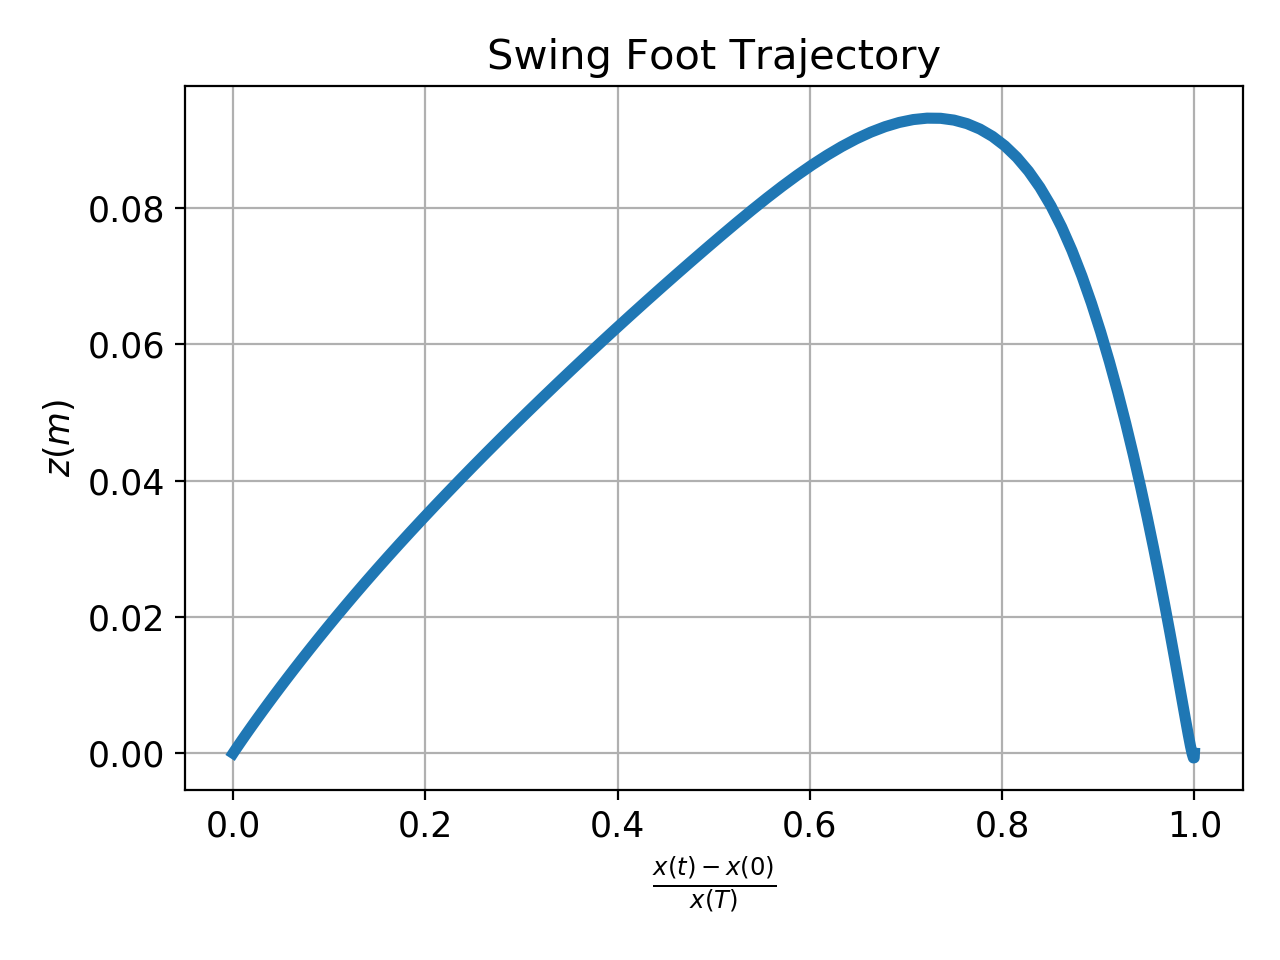
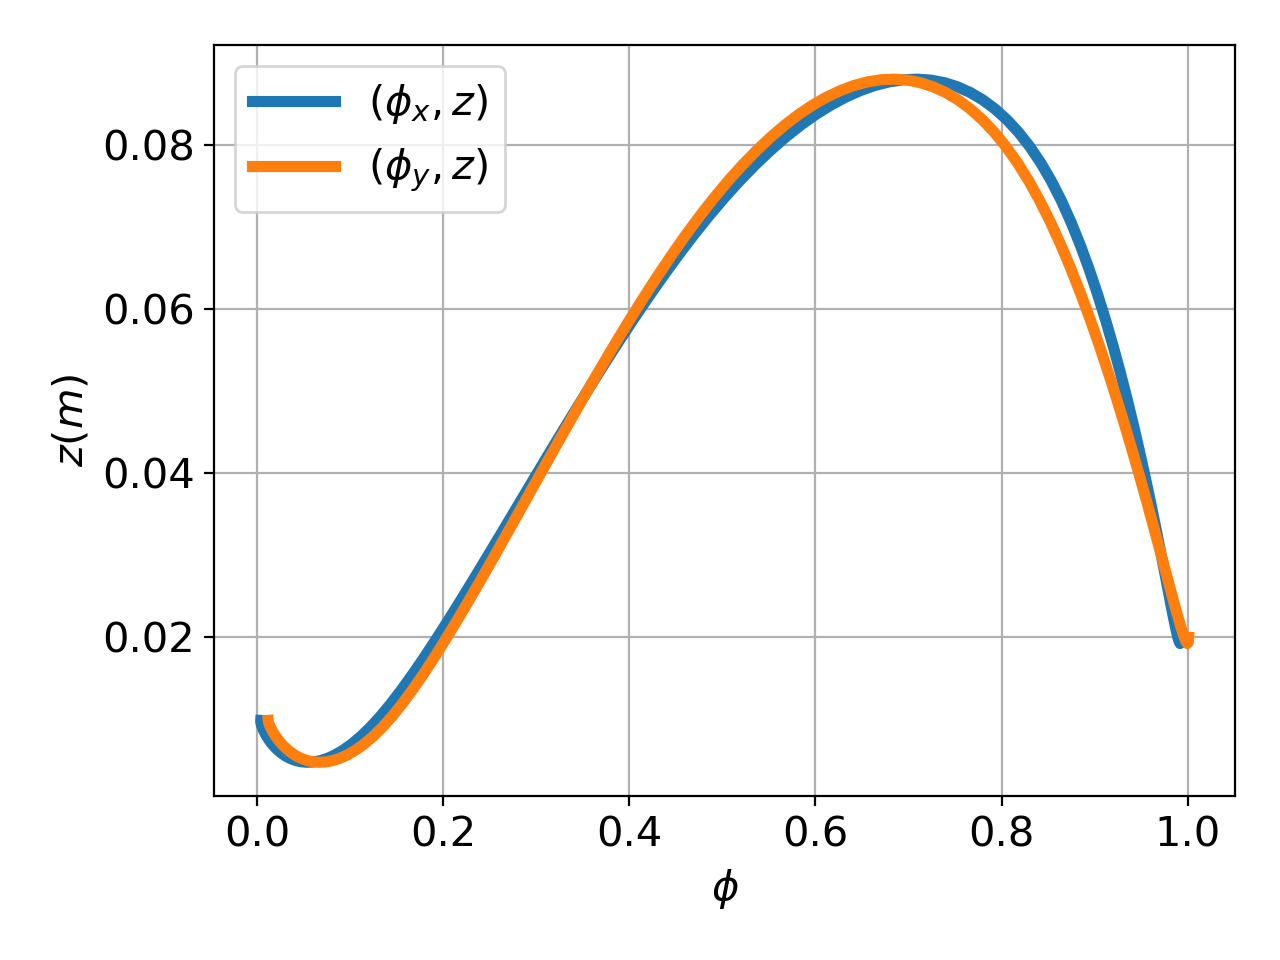
omtipized swing foot profile and plotting

diff --git a/bindings/pydairlib/cassie/learn_swing_foot_spline.py b/bindings/pydairlib/cassie/learn_swing_foot_spline.py
@@ -33,6 +33,10 @@ class SwingFootSplineOptimizer:
         with open(folder + self.date_prefix + '_' + str(budget) + '.pkl', 'wb') as f:
             pickle.dump(params, f, pickle.HIGHEST_PROTOCOL)
 
+    def load_params(self, param_file, folder):
+        with open(folder + param_file + '.pkl', 'rb') as f:
+            return pickle.load(f)
+
     def learn_spline(self):
         self.param_space = \
             ng.p.Array(lower=-0.2, upper=0.2, shape=(len(self.default_action),))
@@ -54,28 +58,44 @@ def params_to_traj(params, duration):
     return pp
 
 
-def params_to_xz_samples(params, duration, n):
+def params_to_xyz_samples(params, duration, n):
     pp = params_to_traj(params, duration)
     t = np.linspace(0, duration, n)
     x = np.zeros(t.shape)
     z = np.zeros(t.shape)
+    y = np.zeros(t.shape)
     for i in range(t.shape[0]):
         xyz = pp.value(t[i])
         x[i] = xyz[0]
+        y[i] = xyz[1]
         z[i] = xyz[-1]
-    return x, z
+    return x, y, z
 
 
-def plot_swing_foot_params(params):
+def plot_swing_foot_params(params, title, filename):
     ps = PlotStyler()
     ps.set_default_styling('bindings/pydairlib/cassie/data/')
-    x, z = params_to_xz_samples(params, 1.0, 100)
-    ps.plot(x, z)
-    plt.title('Swing Foot Trajectory')
-    plt.xlabel('$\\frac{x(t) - x(0)}{x(T)}$')
+    x, y, z = params_to_xyz_samples(params, 1.0, 100)
+    ps.plot(x, z, data_label='$(\phi_{x}, z)$', linestyle='-')
+    ps.plot(y, z, data_label='$(\phi_{y}, z)$', linestyle='--')
+    plt.xlabel('$\phi$')
     plt.ylabel('$z (m)$')
-    ps.save_fig("swing_ft.png")
+    plt.title(title)
+    plt.legend()
+    ps.save_fig(filename)
 
+
+def plot_params_from_file(params_filename):
+    ps = PlotStyler()
+    ps.set_default_styling()
+    opt = SwingFootSplineOptimizer(0)
+    p = opt.load_params(params_filename, opt.data_folder)
+    params = np.array(get_default_params()) + p.value
+    plot_swing_foot_params(
+        params, 'Optimized Swing Foot Spline', 'swing_ft_optimized.png')
+    plot_swing_foot_params(
+        np.array(get_default_params()),
+        'Unoptimized Swing Foot Spline', 'swing_ft_init.png')
 
 def main():
     optimizer = SwingFootSplineOptimizer(1000)
@@ -83,4 +103,4 @@ def main():
 
 
 if __name__ == "__main__":
-    main()
+    plot_params_from_file('2022_06_08_23_1000')

diff --git a/bindings/pydairlib/common/plot_styler.py b/bindings/pydairlib/common/plot_styler.py
@@ -20,22 +20,26 @@ class PlotStyler():
     self.directory = None
     self.fig = plt.figure() if figure is None else figure
     self.fig_id = self.fig.number
-
     return
 
   def attach(self):
     plt.figure(self.fig_id)
+
+  def attach_fig(self, fig):
+      self.fig = fig
+      self.fig_id = fig.number
+      plt.figure(self.fig_id)
 
   def set_default_styling(self, directory=None):
     plt.figure(self.fig_id)
     self.directory = directory
     matplotlib.rcParams["savefig.directory"] = directory
     matplotlib.rcParams['text.latex.preamble'] = [r"\usepackage{amsmath}"]
-    matplotlib.rcParams['figure.figsize'] = 20, 12
+    matplotlib.rcParams['figure.figsize'] = 10, 8
     # matplotlib.rcParams['figure.figsize'] = 20, 6
     # matplotlib.rcParams['figure.figsize'] = 8, 5
     matplotlib.rcParams['figure.autolayout'] = True
-    font = {'size': 12.5}
+    font = {'size': 20}
     matplotlib.rc('font', **font)
     matplotlib.rcParams['lines.linewidth'] = 4
     plt.set_cmap('tab20')

diff --git a/bindings/pydairlib/cassie/cassie_gym/swing_foot_env.py b/bindings/pydairlib/cassie/cassie_gym/swing_foot_env.py
@@ -11,8 +11,8 @@ from pydrake.multibody.plant import MultibodyPlant
 
 from pydairlib.cassie.cassie_gym.drake_cassie_gym import DrakeCassieGym
 from pydairlib.cassie.cassie_gym.cassie_env_state import CassieEnvState, CASSIE_NRADIO
-# from pydairlib.cassie.cassie_gym.reward_osudrl import RewardOSUDRL
-from reward_osudrl import RewardOSUDRL
+from pydairlib.cassie.cassie_gym.reward_osudrl import RewardOSUDRL
+# from reward_osudrl import RewardOSUDRL
 
 N_KNOT = 5
 SWING_FOOT_ACTION_DIM = N_KNOT * 3 + 6
@@ -108,4 +108,4 @@ class SwingFootEnv(DrakeCassieGym):
 
 # TODO(hersh500): set random seed in here as well.
 def make_swing_ft_env():
-    return SwingFootEnv(reward_func = RewardOSUDRL(), visualize=True)
+    return SwingFootEnv(reward_func=RewardOSUDRL(), visualize=True)
